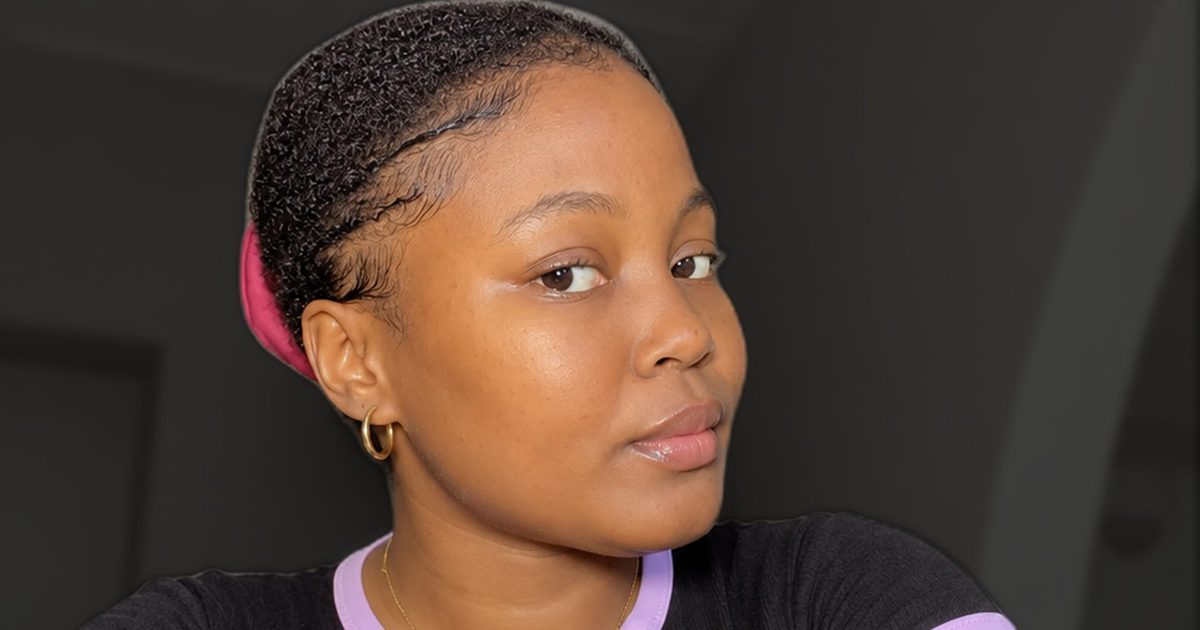
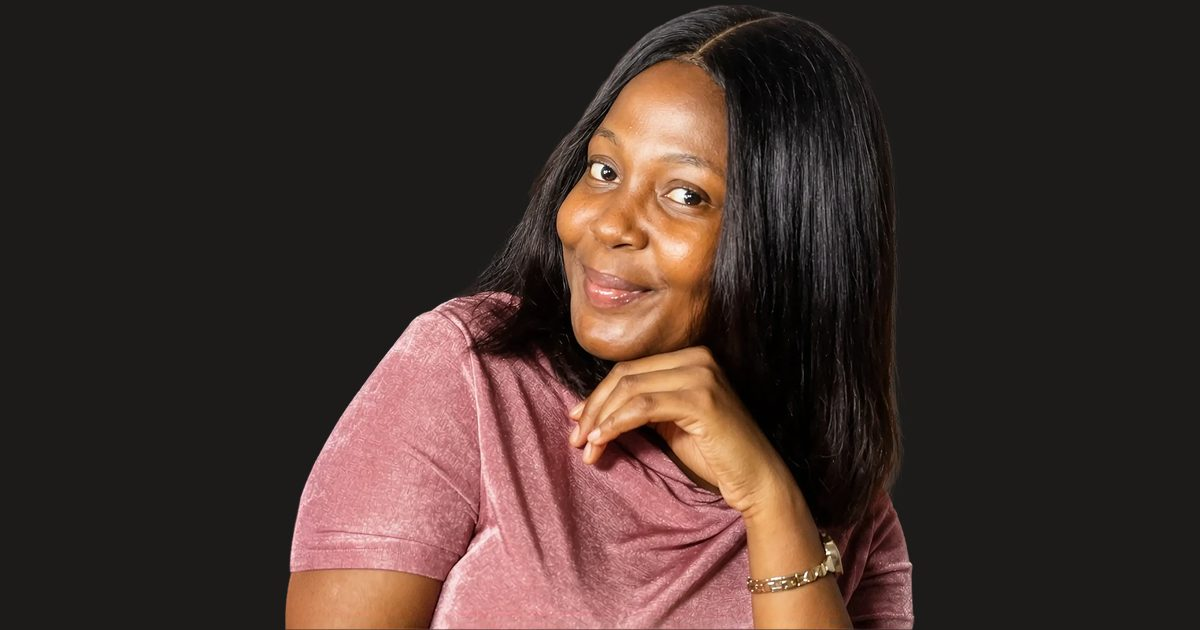
Swap hero portrait
Claude-Session: https://claude.ai/code/session_01PeofrW2dqVmHYiLLDBg2X9

diff --git a/styles.css b/styles.css
@@ -67,7 +67,7 @@ img{display:block;max-width:100%}
 .hero{position:relative;height:100dvh;width:100%;overflow:hidden;background:var(--ink)}
 .hero-bg{position:absolute;inset:0;background:radial-gradient(ellipse 70% 60% at 50% 55%,#3a3833 0%,#1c1b19 55%,#0e0e0e 100%)}
 .hero-shade{position:absolute;left:0;right:0;bottom:0;height:34vh;z-index:25;pointer-events:none;background:linear-gradient(to top,rgba(14,14,14,.85),rgba(14,14,14,0))}
-.hero-cut{position:absolute;z-index:20;pointer-events:none;left:50%;bottom:0;transform-origin:bottom center;height:78dvh;width:auto;max-width:none;translate:-50% 0;-webkit-mask-image:linear-gradient(to right,transparent 0,#000 14%,#000 86%,transparent 100%);mask-image:linear-gradient(to right,transparent 0,#000 14%,#000 86%,transparent 100%)}
+.hero-cut{position:absolute;z-index:20;pointer-events:none;left:50%;bottom:0;transform-origin:bottom center;height:min(78dvh,118vw);width:auto;max-width:none;translate:-50% 0;-webkit-mask-image:linear-gradient(to right,transparent 0,#000 14%,#000 86%,transparent 100%);mask-image:linear-gradient(to right,transparent 0,#000 14%,#000 86%,transparent 100%)}
 @media(min-width:640px){.hero-cut{height:88dvh}}
 .marquee-wrap{position:absolute;left:0;right:0;top:20vh;z-index:10;overflow:hidden}
 @media(min-width:640px){.marquee-wrap{top:14vh}}
